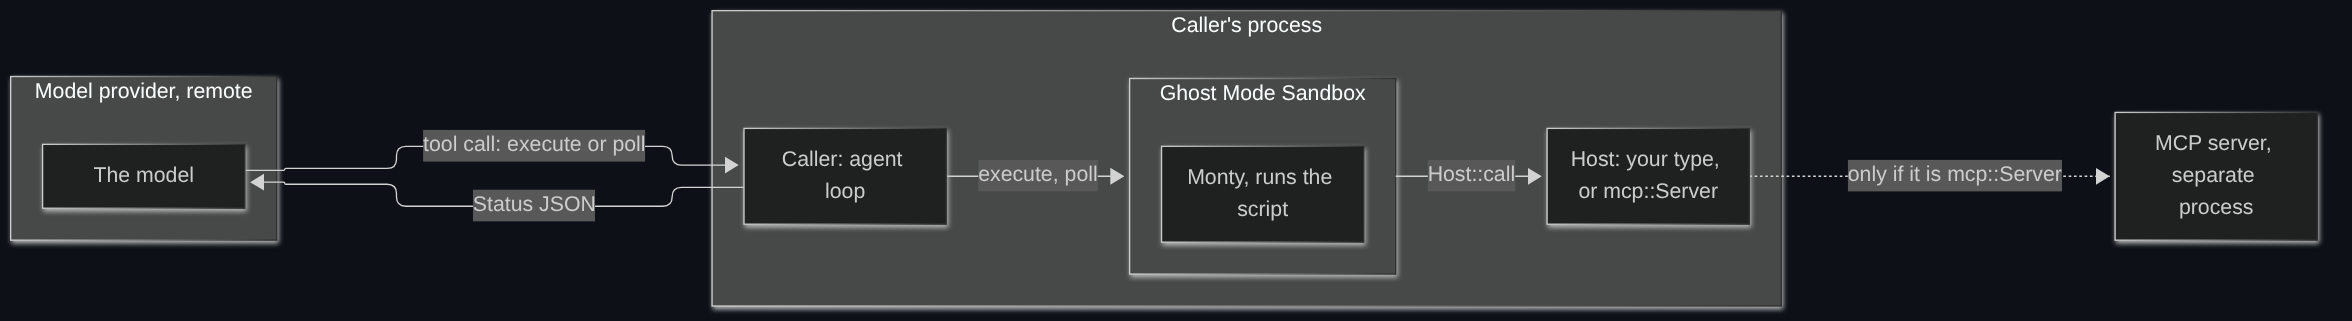
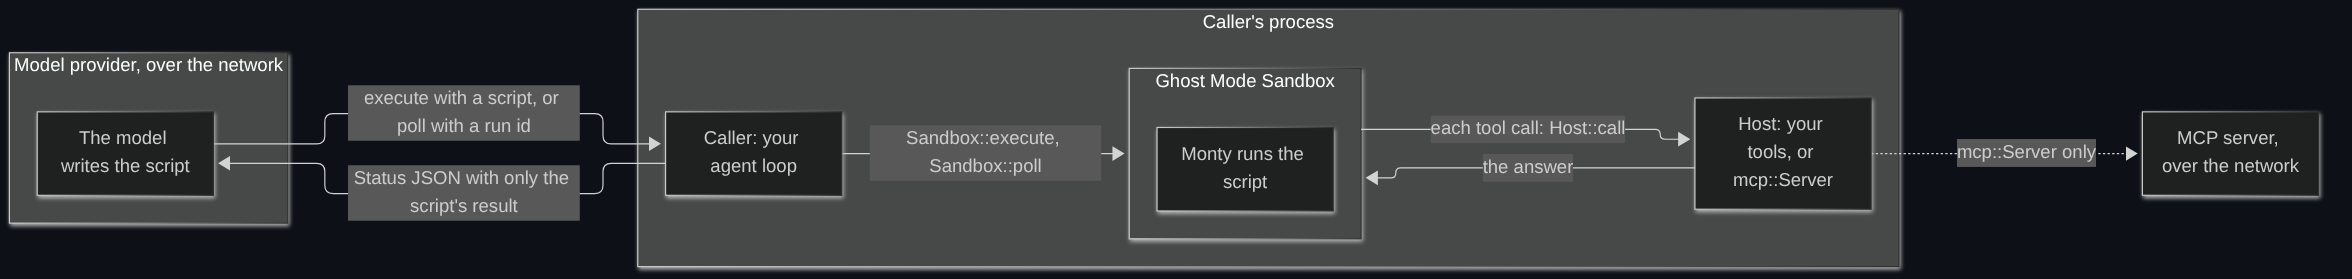
D: Doc comments use the README's words and match what the code does [S] (#76)

diff --git a/src/backend/monty/pool.rs b/src/backend/monty/pool.rs
@@ -32,6 +32,14 @@ use crate::sandbox::Limits;
 /// share the pool's workers. Build it, and so the sandbox, inside the Tokio multi-thread runtime
 /// that built the pool. monty-pool starts workers with an empty environment, so give
 /// `monty_pool::PoolConfig::subprocess` the worker binary's full path.
+///
+/// The worker runs the script, but the thread that polls `execute` or `poll` still converts
+/// values between JSON and Python and cuts output to [`Limits::output_chars`]. The thread that
+/// polls `Builder::restore` checks a dump's signature.
+///
+/// The pool's `min_processes` counts the workers that open sessions hold. With one session
+/// open and `min_processes` at 1, a new session's first script or a restore starts a new
+/// worker.
 #[derive(Clone)]
 pub struct MontyPool(Arc<Pool>); // repeats module: pairs with Monty, the in-process backend
 
@@ -73,8 +81,7 @@ impl MontyPool {
 
     /// Runs the script on from `turn` until it calls one of the host's tools, whose ids are
     /// `tool_ids`, with keyword arguments, or ends. Every other suspension is answered here as
-    /// `backend::Monty` answers it, except awaiting a tool, which ends the worker. What the script
-    /// prints is added to the suspension's streams.
+    /// `backend::Monty` answers it. What the script prints is added to the suspension's streams.
     async fn run(
         &self,
         mut script: Suspension,
@@ -124,7 +131,7 @@ impl MontyPool {
                 }
                 TurnEvent::ResolveFutures { .. } => {
                     drop(on_print);
-                    let message = "tools are not awaitable".to_string();
+                    let message = super::TOOLS_NOT_AWAITABLE.to_string();
                     return Progress::Ended(self.abort(script, message, tool_ids).await);
                 }
             };
@@ -301,7 +308,7 @@ impl Suspension {
 }
 
 /// The worker session settings that stop a script at `limits`' run time, memory and recursion
-/// depth, name the script [`SCRIPT_NAME`] and return from `time.sleep` at once.
+/// depth, name the session [`SCRIPT_NAME`] and return from `time.sleep` at once.
 fn to_repl_config(limits: &Limits) -> ReplConfig {
     ReplConfig {
         script_name: SCRIPT_NAME.to_string(),

diff --git a/tests/steps/schema.rs b/tests/steps/schema.rs
@@ -47,8 +47,8 @@ fn openai_functions_match_mcp_tools(world: &mut World) {
 }
 
 #[then(regex = r"^the `(execute|poll)` input schema without descriptions is (\{.*\})$")]
-fn input_schema_without_descriptions_is(world: &mut World, tool_id: String, expected: String) {
-    let mut input_schema = input_schema_of(world, &tool_id);
+fn input_schema_without_descriptions_is(world: &mut World, function_id: String, expected: String) {
+    let mut input_schema = input_schema_of(world, &function_id);
     remove_descriptions(&mut input_schema);
     assert_eq!(input_schema, parse_json(&expected));
 }
@@ -65,12 +65,14 @@ fn remove_descriptions(schema: &mut Value) {
     }
 }
 
-/// The input schema of the model's tool `tool_id` that `list_mcp_tools` lists for the
-/// scenario's host.
-fn input_schema_of(world: &World, tool_id: &str) -> Value {
-    let tools = schema::list_mcp_tools(&world.host.tools());
-    let tool = tools.iter().find(|tool| tool["name"] == tool_id);
-    tool.expect("a listed tool")["inputSchema"].clone()
+/// The input schema of `execute` or `poll`, whichever is `function_id`, that `list_mcp_tools`
+/// lists for the scenario's host.
+fn input_schema_of(world: &World, function_id: &str) -> Value {
+    let definitions = schema::list_mcp_tools(&world.host.tools());
+    let definition = definitions
+        .iter()
+        .find(|definition| definition["name"] == function_id);
+    definition.expect("a listed function")["inputSchema"].clone()
 }
 
 #[then(regex = r#"^the execute description contains "(.+)"$"#)]
@@ -101,7 +103,7 @@ fn id_is_python_identifier(_world: &mut World, id: String, negation: String) {
     );
 }
 
-/// The description of the `execute` tool that `list_mcp_tools` lists for the scenario's host.
+/// The description of `execute` that `list_mcp_tools` lists for the scenario's host.
 fn execute_description(world: &World) -> String {
     let tools = schema::list_mcp_tools(&world.host.tools());
     let execute = tools.iter().find(|tool| tool["name"] == "execute");

diff --git a/src/sandbox.rs b/src/sandbox.rs
@@ -1,4 +1,4 @@
-//! The sandbox that answers the model's `execute` and `poll` tool calls.
+//! The sandbox that answers each `execute` or `poll` call the caller passes in from the model.
 
 use std::borrow::Cow;
 use std::time::{Duration, Instant};
@@ -82,8 +82,8 @@ pub struct Limits {
     pub output_chars: usize,
 }
 
-/// What `execute` or `poll` answers, from the sandbox to the model. It serializes as the JSON
-/// the model sees, such as `{"status": "running", "run_id": 1}`.
+/// What `execute` or `poll` answers, from the sandbox to the caller. It serializes as the JSON
+/// the caller sends to the model, such as `{"status": "running", "run_id": 1}`.
 #[derive(Clone, Debug, PartialEq, Serialize)]
 #[serde(tag = "status", rename_all = "snake_case")]
 pub enum Status {
@@ -111,8 +111,9 @@ pub enum Status {
     Failed {
         /// What went wrong, such as the script's traceback.
         error: String,
-        /// The tool calls the host answered before the failure. Each argument is cut to its
-        /// share of [`Limits::output_chars`], which is `output_chars / calls_per_execute`.
+        /// Every tool call the host answered in the run, refused and failed ones too. Each
+        /// argument is cut to its share of [`Limits::output_chars`], which is
+        /// `output_chars / calls_per_execute`.
         calls: Vec<host::Call>,
         /// What the script printed to stdout before the failure, if it printed anything there.
         /// A print that would take the script's prints on stdout and stderr together past

diff --git a/src/schema.rs b/src/schema.rs
@@ -1,11 +1,11 @@
-//! The model's two tools, `execute` and `poll`, with their JSON Schemas, as MCP tools and as
-//! OpenAI functions. The caller hands one of the two lists to its model.
+//! The two functions the model calls, `execute` and `poll`, with their JSON Schemas, in MCP's
+//! and OpenAI's shapes. The caller hands one of the two lists to its model.
 
 use serde_json::{Value, json};
 
 use crate::host;
 
-/// The model's `execute` and `poll` tools, in that order, in the shape MCP's `tools/list`
+/// The two functions the model calls, `execute` then `poll`, in the shape MCP's `tools/list`
 /// answers with: `{"name", "description", "inputSchema"}`. The schemas set
 /// `additionalProperties: false`, and the execute description lists each of `host_tools` whose
 /// id is a Python identifier as a typed, keyword-only Python stub.
@@ -57,7 +57,7 @@ pub fn list_mcp_tools(host_tools: &[host::Tool]) -> Vec<Value> {
     ]
 }
 
-/// The same tools as [`list_mcp_tools`], as OpenAI function tools:
+/// The same two functions as [`list_mcp_tools`], as OpenAI functions:
 /// `{"type": "function", "function": {"name", "description", "parameters"}}`.
 pub fn list_openai_functions(host_tools: &[host::Tool]) -> Vec<Value> {
     list_mcp_tools(host_tools)

diff --git a/src/backend/monty/in_process.rs b/src/backend/monty/in_process.rs
@@ -135,8 +135,8 @@ impl Backend for Monty {
 impl Monty {
     /// Runs the script until it calls one of the host's tools, whose ids are `tool_ids`, with
     /// keyword arguments, or ends. Every other suspension is answered here: an unknown name
-    /// raises `NameError`, an OS call gets Monty's no-handler answer, and awaiting a tool raises
-    /// `RuntimeError`. What the script prints is added to `streams`.
+    /// raises `NameError`, and an OS call gets Monty's no-handler answer. What the script prints
+    /// is added to `streams`.
     fn run(
         &self,
         mut monty_progress: Result<ReplProgress, Box<ReplStartError>>,
@@ -193,7 +193,7 @@ impl Monty {
                     os_call.resume(answer, PrintWriter::collect_streams(&mut streams))
                 }
                 Ok(ReplProgress::ResolveFutures(futures)) => {
-                    let error = MontyException::runtime_error("tools are not awaitable");
+                    let error = MontyException::runtime_error(super::TOOLS_NOT_AWAITABLE);
                     futures.abort(error, PrintWriter::collect_streams(&mut streams))
                 }
             };

diff --git a/src/host.rs b/src/host.rs
@@ -4,15 +4,17 @@ use futures_util::future::BoxFuture;
 use serde::Serialize;
 use serde_json::{Map, Value};
 
-/// The caller's side of the sandbox: it lists the tools a script may call and answers each
-/// call, normally by forwarding it to an MCP server's tools.
+/// The tools a script may call, and the answers to its calls. The host lives in the caller's
+/// process.
 pub trait Host {
     /// The tools a script may call, by id.
     fn tools(&self) -> Vec<Tool>;
 
     /// Answers one tool call from a script. The future clones what it needs from `call`. The
     /// run waits for the future, and a run that outlives its wait keeps the future until a
-    /// later `poll` finds it ready.
+    /// later `poll` finds it ready. The sandbox polls the future only while the caller awaits
+    /// `execute` or `poll`, so work that must go on between them belongs in a task the host
+    /// spawns.
     fn call(&self, call: &Call) -> BoxFuture<'static, Result<Value, Error>>;
 }
 

diff --git a/src/backend/monty.rs b/src/backend/monty.rs
@@ -19,12 +19,17 @@ mod in_process;
 mod pool;
 mod value;
 
-/// The name each session gives its scripts.
+/// The file name of each session itself, such as in its `__file__` and its dumps. A traceback
+/// names each script `<python-input-N>` instead, counting from 0.
 const SCRIPT_NAME: &str = "script.py";
 
 /// The error text for restoring a dump that holds a suspended or one-shot run, not an idle
 /// session.
 const DUMP_HOLDS_RUN: &str = "the dump holds a run, and ghostmode restores only an idle session";
+
+/// The error that ends a script waiting on Monty futures. A tool call hands the script a plain
+/// value, never a future, so a script that awaits a tool's answer gets `TypeError` instead.
+const TOOLS_NOT_AWAITABLE: &str = "tools are not awaitable";
 
 /// Monty's limits that stop a script at `limits`' run time, memory and recursion depth. They
 /// put no bound on suspensions, so only [`Limits::calls_per_execute`] limits tool calls.

diff --git a/src/mcp.rs b/src/mcp.rs
@@ -131,8 +131,8 @@ fn to_tool_id(mcp_id: &str) -> String {
     tool_id
 }
 
-/// The script's answer to an MCP tool call: its structured content when present, else its text,
-/// parsed as JSON when it parses. `isError: true` fails the call with the text.
+/// The host's answer from an MCP `tools/call` result: its structured content when present, else
+/// its text, parsed as JSON when it parses. `isError: true` fails the call with the text.
 fn to_answer(result: CallToolResult) -> Result<Value, host::Error> {
     let text: Vec<&str> = result
         .content

diff --git a/src/lib.rs b/src/lib.rs
@@ -1,5 +1,5 @@
 //! Code Mode for Rust agents. The model writes a script, ghostmode runs it in a sandbox, and
-//! the host provides the tools the script calls. The model sees two tools, `execute` and `poll`.
+//! the host provides the tools the script calls. The model calls only `execute` and `poll`.
 //!
 //! A sandbox runs scripts in a [`backend::Backend`]. The default backend, `backend::Monty`, runs
 //! them inside the caller's process. It isn't crash-isolated: a script can panic, abort or hang

diff --git a/tests/features.rs b/tests/features.rs
@@ -62,7 +62,8 @@ impl fmt::Debug for World {
     }
 }
 
-/// One of the model's two tool calls or a call of the caller's, from a When step to the sandbox.
+/// A call of one of the two functions the model calls, or a call of the caller's, from a When
+/// step to the sandbox.
 enum Request {
     Execute { code: String, restart: bool },
     Poll(u64),

diff --git a/docs/extending.md b/docs/extending.md
@@ -5,9 +5,26 @@ A `Sandbox` works with two parts that you can replace:
 - **The host** decides which tools a script can call, and answers each call. Write one to offer your own tools. It implements the `Host` trait in `src/host.rs`.
 - **The backend** runs the script. Write one to run scripts in another interpreter or another process. It implements the `Backend` trait in `src/backend.rs`.
 
-If you only want to offer tools, you only need a host. The default backend, `Monty`, runs scripts in Monty inside the caller's process. The `monty-pool` feature adds `backend::MontyPool`, which runs each session in its own Monty worker process.
+If you only want to offer tools, you only need a host. The default backend is `Monty`, and the `monty-pool` feature adds `backend::MontyPool`. [Where scripts run](#where-scripts-run) compares them.
 
-This guide uses the same words as the README. The model is the LLM at the model provider. The caller is your app, the agent loop. The `Sandbox` is the library object in the caller's process. The script is the Python the model wrote. Monty is the Python interpreter. The host is your `Host` value, and a tool is one function the host offers.
+The README and this guide use these words:
+
+- The model is the LLM at the model provider. It never runs code and only sees the definitions of `execute` and `poll`, the two functions the model calls.
+- The caller is your app, the agent loop. It owns a `Sandbox`, passes each `execute` or `poll` call from the model into it, and sends the `Status` JSON back.
+- The `Sandbox` is a library object in the caller's process, not a separate service.
+- The script is the Python the model wrote.
+- Monty is the Python interpreter that runs the script.
+- The host is the value you pass to `Sandbox::builder` or `Builder::new`. Its type implements `Host`.
+- A tool is one function the host offers. The script calls it like a Python function, and the `Sandbox` turns the call into `Host::call`. The host can do anything to answer, network calls included.
+- `mcp::Server` is a ready-made host behind the `rmcp` feature. It wraps an rmcp client connection to an MCP server that runs somewhere else, and its tools are that server's tools.
+
+## Where scripts run
+
+`Monty` runs the script inside the caller's process, on the thread that polls `Sandbox::execute` or `Sandbox::poll`. That thread runs nothing else until the script calls a tool or ends, for up to `Limits::run_time` in total, 30 s by default. On Tokio, call `execute`, `poll`, `Sandbox::dump` and `Builder::restore` inside `spawn_blocking` or `block_in_place`, so a script doesn't stall the runtime's other tasks.
+
+`Monty` isn't crash-isolated. A script, or a dump restored without a signing key, can panic, abort or hang the caller's process.
+
+`MontyPool`, behind the `monty-pool` feature, runs each session in its own `monty` worker process from monty-pool. A crash ends only that worker, and the next status says the session restarted. It needs a Tokio multi-thread runtime. Its rustdoc says what still runs on the polling thread and how the pool counts workers.
 
 ## What happens during one execute
 
@@ -56,7 +73,7 @@ use std::sync::{Arc, Mutex};
 
 use futures_util::future::{self, BoxFuture, FutureExt};
 use ghostmode::Sandbox;
-use ghostmode::host::{Call, Error, Host, Tool};
+use ghostmode::host::{self, Call, Host, Tool};
 use serde_json::{Value, json};
 
 struct Notes {
@@ -84,18 +101,18 @@ impl Host for Notes {
         ]
     }
 
-    fn call(&self, call: &Call) -> BoxFuture<'static, Result<Value, Error>> {
+    fn call(&self, call: &Call) -> BoxFuture<'static, Result<Value, host::Error>> {
         let answer = match call.tool_id.as_str() {
-            "add_note" if self.read_only => Err(Error::Refused("notes are read-only".into())),
+            "add_note" if self.read_only => Err(host::Error::Refused("notes are read-only".into())),
             "add_note" => match call.args.get("text").and_then(Value::as_str) {
                 Some(text) => {
                     self.notes.lock().unwrap().push(text.to_string());
                     Ok(Value::Null)
                 }
-                None => Err(Error::Failed("text must be a string".into())),
+                None => Err(host::Error::Failed("text must be a string".into())),
             },
             "list_notes" => Ok(json!(*self.notes.lock().unwrap())),
-            other => Err(Error::Failed(format!("no tool has the id {other}"))),
+            other => Err(host::Error::Failed(format!("no tool has the id {other}"))),
         };
         future::ready(answer).boxed()
     }
@@ -143,10 +160,11 @@ Every `Progress` is one of two variants:
 - `Progress::Call` carries the `host::Call` and the `Suspension`. The `Sandbox` sends the call to the host and passes the answer to `resume`.
 - `Progress::Ended` carries an `Ending`, which holds the `result`, the `streams`, the idle `session` and whether the session `restarted`. The `result` is Ok with the value of the script's last expression as JSON, or Err with the script's traceback as text.
 
-The toy backend below treats the whole script as one tool id. It calls that tool with no arguments, and the script's value is the tool's answer. It has no globals, so its `Session` and `Suspension` are `()`.
+The toy backend below treats the whole script as one tool id. It calls that tool with no arguments, and the script's value is the tool's answer. It has no globals, so its `Session` and `Suspension` are `()`. The snippet runs it with the notes host from above.
 
 ```rust
 use std::error;
+use std::sync::Arc;
 
 use ghostmode::backend::{Backend, Ending, Progress, Streams};
 use ghostmode::host::{self, Call};
@@ -207,6 +225,7 @@ impl Backend for OneCall {
     }
 }
 
+let host = Notes { notes: Arc::default(), read_only: false };
 let mut sandbox = Builder::new(host, OneCall).build().await;
 ```
 
@@ -216,7 +235,7 @@ For the real reference, see `Monty` in `src/backend/monty/in_process.rs`. Its `r
 
 ### Rules for a backend
 
-- **Stop only for the host's tools.** Return `Progress::Call` only for a call to one of the host's tools, with keyword arguments only. The `Sandbox` passes the host's tool ids to `feed_start`, `resume` and `abort`. Answer everything else inside the backend. `Monty` raises NameError for an unknown name, TypeError for a positional argument and RuntimeError for an awaited tool, and it gives every OS call the no-handler answer.
+- **Stop only for the host's tools.** Return `Progress::Call` only for a call to one of the host's tools, with keyword arguments only. The `Sandbox` passes the host's tool ids to `feed_start`, `resume` and `abort`. Answer everything else inside the backend. `Monty` raises NameError for an unknown name and TypeError for a positional argument, and it gives every OS call the no-handler answer. A tool call hands the script a plain value, so a script that awaits one gets a TypeError such as `'dict' object can't be awaited`, and the session keeps its globals.
 - **An `Ending` carries everything the run produced.** The `session` is idle and keeps the globals the script set, even when the script failed. A backend that loses the globals, as `MontyPool` does when its worker crashes, gives back an empty session and sets `restarted` on the next script's `Ending`, so that script's status says the session restarted. The `streams` hold everything the script printed during the whole run, across every `resume`. The `Sandbox` puts the Err text in the `failed` status's `error`, so make it the traceback you want the model to read.
 - **`abort` ends the script.** The script can't catch the error, so `abort` returns an `Ending`, never a tool call. The `Sandbox` calls it when the script reaches `calls_per_execute` and when a call passes `call_timeout`.
 - **The backend enforces three limits.** `new_session` and `restore` get the `Limits`. The session stops a script at `run_time`, `memory_bytes` and `recursion_depth`. `run_time` counts only the script's own time, summed over the whole run, and not the time it waits on the host. The `Sandbox` enforces `calls_per_execute`, `call_timeout`, `idle_timeout` and `output_chars` itself.

diff --git a/README.md b/README.md
@@ -28,27 +28,16 @@ The script runs inside your process. The model only gets the last 500 characters
 
 Those are other teams' Code Mode numbers. Ghost Mode brings the same idea to Rust.
 
-What it takes: give a `Sandbox` your tools, or point it at an MCP server, and hand the model only two tool definitions, `execute` and `poll`. The Monty backend runs the script inside your process, so there's no container or extra service. The script can only reach the outside world through your tools.
+What it takes: give a `Sandbox` your tools, or point it at an MCP server, and hand the model only two function definitions, `execute` and `poll`. The Monty backend runs the script inside your process, so there's no container or extra service. The script can only reach the outside world through your tools.
 
 ## How it works
 
 <picture>
   <source media="(prefers-color-scheme: dark)" srcset="assets/how-it-works-dark.png">
-  <img src="assets/how-it-works.png" alt="The model at the provider sends execute or poll to the caller. The caller passes it to the Sandbox, where Monty runs the script. Tool calls go to the host, which reaches an MCP server only if it is mcp::Server.">
+  <img src="assets/how-it-works.png" alt="The model at the model provider writes a script and sends it with execute, or asks for a run with poll. The caller, your agent loop, passes the call to the Sandbox, where Monty runs the script. Each tool call goes to the host with Host::call, and the answer goes back to the script. The caller sends the model a Status JSON with only the script's result. The host reaches an MCP server only if it is mcp::Server.">
 </picture>
 
-Here's who's who. Everything except the model and any MCP server lives in the caller's process.
-
-- **The model** is the LLM. It runs at the model provider, never runs code, and only sees two tool definitions, `execute` and `poll`.
-- **The caller** is your app, the agent loop. It owns a `Sandbox`, passes each `execute` or `poll` call from the model into it, and sends the `Status` JSON back.
-- **The `Sandbox`** is a Ghost Mode library object in the caller's process. No separate service.
-- **The script** is the Python the model wrote.
-- **Monty** is the Python interpreter that runs the script, inside the caller's process.
-- **The host** is the value you pass to `Sandbox::builder`. Its type implements `Host`, and it offers tools and answers calls to them.
-- **A tool** is one function the host offers. The script calls it like a Python function, and the `Sandbox` turns that into `Host::call`. The host can do whatever it likes to answer, network calls included.
-- **`mcp::Server`** is a ready-made host behind the `rmcp` feature. It wraps an rmcp client connection to an MCP server running somewhere else, and its tools are that server's tools.
-
-Every arrow inside the caller's process is a plain Rust function call. The only network hops are caller to model provider, and `mcp::Server` to its MCP server.
+Every arrow inside the caller's process is a plain Rust function call. The model never runs code and only sees the definitions of `execute` and `poll`. [Writing a host or a backend](docs/extending.md) names each part and follows one `execute` from start to end.
 
 ## Usage
 
@@ -56,7 +45,7 @@ Write a host, build a `Sandbox`, and give the model the `execute` and `poll` def
 
 ```rust
 use futures_util::future::{BoxFuture, FutureExt};
-use ghostmode::host::{Call, Error, Host, Tool};
+use ghostmode::host::{self, Call, Host, Tool};
 use ghostmode::{schema, Sandbox};
 use serde_json::{json, Value};
 
@@ -75,27 +64,25 @@ impl Host for Echo {
         }]
     }
 
-    fn call(&self, call: &Call) -> BoxFuture<'static, Result<Value, Error>> {
-        let text = call.args.get("text").cloned().ok_or_else(|| Error::Failed("text is required".into()));
+    fn call(&self, call: &Call) -> BoxFuture<'static, Result<Value, host::Error>> {
+        let text = call.args.get("text").cloned().ok_or_else(|| host::Error::Failed("text is required".into()));
         async move { text }.boxed()
     }
 }
 
 let host = Echo;
-let tools = schema::list_mcp_tools(&host.tools());
+let definitions = schema::list_mcp_tools(&host.tools());
 let mut sandbox = Sandbox::builder(host).build().await;
-// Hand `tools` to the model. When it calls execute, run the code and send the Status JSON back.
+// Hand `definitions` to the model. When it calls execute, run the code and send the Status JSON back.
 let status = sandbox.execute("echo(text='hello')", false).await;
 let reply = serde_json::to_value(&status).unwrap();
 ```
 
 `schema::list_mcp_tools` gives you the pair in MCP shape, and `schema::list_openai_functions` gives them as OpenAI functions. With the `rmcp` feature on, pass an `mcp::Server` to `Sandbox::builder` instead of writing your own host.
 
-Monty inside your process runs the script on the thread that polls `Sandbox::execute` or `Sandbox::poll`, for up to 30 s by default, and that thread runs nothing else meanwhile. On Tokio, call `execute`, `poll`, `Sandbox::dump` and `Builder::restore` inside `spawn_blocking` or `block_in_place` so a script doesn't stall the runtime's other tasks, or use `backend::MontyPool` below.
+The default backend, `Monty`, runs the script inside your process and isn't crash-isolated. For untrusted scripts, turn on the `monty-pool` feature and pass a `backend::MontyPool` to `Builder::new`, which runs each session in its own worker process. On Tokio, read [Where scripts run](docs/extending.md#where-scripts-run) first.
 
-Monty inside your process isn't crash-isolated: a script, or a dump restored without a signing key, can panic, abort or hang the process. For untrusted scripts, turn on the `monty-pool` feature and pass a `backend::MontyPool` to `Builder::new`. It runs each session in its own `monty` worker process from monty-pool, so a crash ends only that worker, and the next status says the session restarted. It needs a Tokio multi-thread runtime.
-
-`Sandbox::dump` saves an idle session as bytes, and `Builder::restore` loads them into a new sandbox. Monty doesn't check dumps, so before you store them where others can write, set `Builder::signing_key`: restore then refuses bytes the key didn't sign. The tag doesn't hide what the session holds.
+`Sandbox::dump` saves an idle session as bytes, and `Builder::restore` loads them into a new sandbox. Before you store dumps where others can write, set `Builder::signing_key`. Restore then refuses bytes the key didn't sign.
 
 To offer tools some other way, or to run scripts in something other than Monty, see [Writing a host or a backend](docs/extending.md).
 
